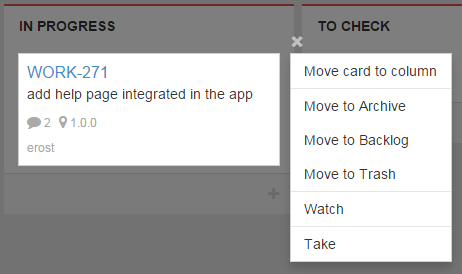
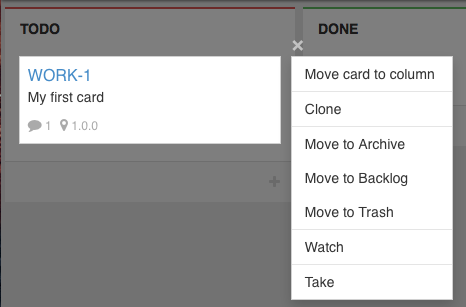
WORK-359 updated the manual

diff --git a/src/main/webapp/partials/fragments/board-card-menu-card-actions-fragment.html b/src/main/webapp/partials/fragments/board-card-menu-card-actions-fragment.html
@@ -4,6 +4,10 @@
 			<li data-lvg-has-permission="MOVE_CARD">
 				<button class="lvg-dropdown-button lvg-button-white-bg" data-ng-click="moveColumnFlag = true;" data-ng-bind="'partials.fragments.card-fragment.moveToColumn' | translate"></button>
 			</li>
+            <li class="divider" data-lvg-has-permission="CREATE_CARD"></li>
+            <li data-lvg-has-permission="CREATE_CARD">
+                <button class="lvg-dropdown-button lvg-button-white-bg" data-ng-click="cloneCardFlag = true;" data-ng-bind="'partials.fragments.card-fragment.clone' | translate"></button>
+            </li>
 			<li class="divider" data-lvg-has-permission="MOVE_CARD"></li>
 			<li data-lvg-has-permission="MOVE_CARD">
 				<button class="lvg-dropdown-button lvg-button-white-bg" data-ng-click="moveCard(card, 'ARCHIVE'); close();" data-ng-bind="'partials.fragments.card-fragment.moveToArchive' | translate"></button>
@@ -28,10 +32,6 @@
 			<li data-lvg-has-permission="UPDATE_CARD" data-ng-if="isAssignedToCard(card.labels, currentUserId)">
 				<button class="lvg-dropdown-button lvg-button-white-bg" data-ng-click="removeAssignForCurrentUser(card.id, currentUserId); close();" data-ng-bind="'partials.fragments.card-fragment.surrender' | translate"></button>
 			</li>
-            <li class="divider" data-lvg-has-permission="CREATE_CARD"></li>
-            <li data-lvg-has-permission="CREATE_CARD">
-                <button class="lvg-dropdown-button lvg-button-white-bg" data-ng-click="cloneCardFlag = true;" data-ng-bind="'partials.fragments.card-fragment.clone' | translate"></button>
-            </li>
 		</ul>
 	</div>
     <div data-ng-show="cloneCardFlag" class="fixed-card-menu-panel">

diff --git a/src/main/stampo/doc/04-user-manual/04-03-board/04-03-03-card-menu.en.peb.md b/src/main/stampo/doc/04-user-manual/04-03-board/04-03-03-card-menu.en.peb.md
@@ -10,7 +10,8 @@ A modal menu will open, keeping the card in focus, and displaying the various op
 
 The operations available on the card menu are:
 
-* **Move card to column**: it will open a secondary menu, where it's possible to chose one of the available column, and move the card there. To return to the initial menu, click **Cancel**.
+* **Move card to column**: it will open a secondary menu, where it's possible to choose one of the available columns, and move the card there. To return to the initial menu, click **Cancel**.
+* **Clone** it will open another secondary menu, where it’s possible to choose one of the available columns in the same project, and clone the card there. To return to the initial menu, click Cancel.
 * **Move to Archive**: archive the card
 * **Move to Backlog**: move the card to the board backlog
 * **Move to Trash**: move the card to the board trash bin
